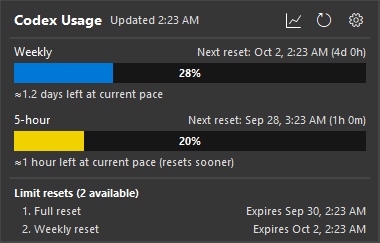
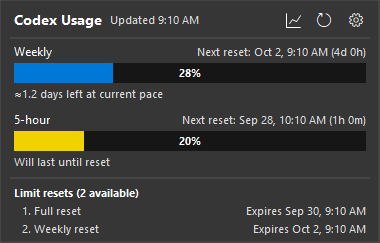
fix(usage): clarify reset forecasts and improve history charts

diff --git a/src/UsageHistoryForm.cs b/src/UsageHistoryForm.cs
@@ -68,8 +68,8 @@ namespace CodexUsageTray
             tabs.AutoSize = true;
             tabs.Dock = DockStyle.Fill;
             tabs.Margin = new Padding(0, 0, 0, 8);
-            weeklyButton = CreatePeriodButton("&Weekly", "Weekly usage: last seven days");
-            fiveHourButton = CreatePeriodButton("&5-hour", "Five-hour usage: last five hours");
+            weeklyButton = CreatePeriodButton("&Weekly", "Weekly limit: all recorded history");
+            fiveHourButton = CreatePeriodButton("&5-hour", "Five-hour limit: all recorded history");
             tabs.Controls.Add(weeklyButton);
             tabs.Controls.Add(fiveHourButton);
             Button clearButton = new Button();
@@ -94,7 +94,7 @@ namespace CodexUsageTray
             detailLabel.AccessibleName = "Selected usage reading";
             forecastLabel = CreateLabel("");
             forecastLabel.AccessibleName = "Estimated usage remaining";
-            Label legend = CreateLabel("Dotted lines: reset or usage adjustment observed. Gaps: missing observations. Times are local.");
+            Label legend = CreateLabel("Dashed segments: gaps between readings. Vertical dotted lines: reset or adjustment. Times are local.");
             legend.Margin = new Padding(0, 8, 0, 0);
 
             layout.Controls.Add(tabs, 0, 0);
@@ -287,19 +287,26 @@ namespace CodexUsageTray
                     : null;
                 weekly = showWeekly;
                 endUtc = nowUtc;
-                startUtc = nowUtc - (weekly ? TimeSpan.FromDays(7) : TimeSpan.FromHours(5));
+                startUtc = nowUtc;
                 samples.Clear();
                 if (values != null)
                 {
                     for (int i = 0; i < values.Count; i++)
                     {
                         UsageHistorySample sample = values[i];
-                        if (sample != null && sample.TimestampUtc >= startUtc && sample.TimestampUtc <= endUtc)
+                        if (sample != null && sample.TimestampUtc <= endUtc &&
+                            UsageHistoryStore.GetWindow(sample, weekly) != null)
                         {
                             samples.Add(sample);
                         }
                     }
                 }
+                samples.Sort(delegate(UsageHistorySample left, UsageHistorySample right)
+                {
+                    return left.TimestampUtc.CompareTo(right.TimestampUtc);
+                });
+                if (samples.Count > 0) startUtc = samples[0].TimestampUtc;
+                if (endUtc <= startUtc) endUtc = startUtc.AddMinutes(1);
                 int retainedIndex = -1;
                 if (selectedTimestamp.HasValue)
                 {
@@ -340,8 +347,9 @@ namespace CodexUsageTray
                 graphics.SmoothingMode = SmoothingMode.AntiAlias;
                 float scale = graphics.DpiX / 96.0f;
                 float labelHeight = Math.Max(Font.Height + 4, 18 * scale);
+                bool showDates = startUtc.ToLocalTime().Date != endUtc.ToLocalTime().Date;
                 plot = new RectangleF(48 * scale, labelHeight + 4 * scale,
-                    Math.Max(1, Width - 64 * scale), Math.Max(1, Height - labelHeight * 3 - 8 * scale));
+                    Math.Max(1, Width - 64 * scale), Math.Max(1, Height - labelHeight * (showDates ? 4 : 3) - 8 * scale));
                 Color muted = SystemInformation.HighContrast ? SystemColors.WindowText :
                     dark ? Color.Gainsboro : Color.FromArgb(72, 72, 72);
                 Color grid = SystemInformation.HighContrast ? SystemColors.WindowText :
@@ -359,24 +367,30 @@ namespace CodexUsageTray
                         DrawText(graphics, percent.ToString(CultureInfo.CurrentCulture) + "%",
                             new RectangleF(0, y - labelHeight / 2, plot.Left - 6 * scale, labelHeight), muted, true);
                     }
-                    for (int tick = 0; tick <= 4; tick++)
+                    for (int tick = 0; samples.Count > 0 && tick <= 4; tick++)
                     {
                         float x = plot.Left + plot.Width * tick / 4.0f;
                         graphics.DrawLine(gridPen, x, plot.Bottom, x, plot.Bottom + 4 * scale);
                         DateTime time = startUtc + TimeSpan.FromTicks((endUtc - startUtc).Ticks * tick / 4);
-                        string label = time.ToLocalTime().ToString(weekly ? "MMM d" : "t", CultureInfo.CurrentCulture);
+                        DateTime local = time.ToLocalTime();
+                        string label = local.ToString(showDates ? "MMM d" : "t", CultureInfo.CurrentCulture);
                         float width = Math.Min(88 * scale, plot.Width / 4);
                         float left = Math.Max(plot.Left, Math.Min(plot.Right - width, x - width / 2));
                         DrawText(graphics, label, new RectangleF(left, plot.Bottom + 6 * scale, width, labelHeight), muted, false);
+                        if (showDates)
+                            DrawText(graphics, local.ToString("t", CultureInfo.CurrentCulture),
+                                new RectangleF(left, plot.Bottom + 6 * scale + labelHeight, width, labelHeight), muted, false);
                     }
                 }
 
                 int validCount = 0;
                 using (Pen linePen = new Pen(line, Math.Max(1.5f, 2 * scale)))
+                using (Pen gapPen = new Pen(line, Math.Max(1.5f, 2 * scale)))
                 using (Pen resetPen = new Pen(muted, Math.Max(1, scale)))
                 using (Brush pointBrush = new SolidBrush(line))
                 {
                     resetPen.DashStyle = DashStyle.Dot;
+                    gapPen.DashStyle = DashStyle.Dash;
                     for (int i = 0; i < samples.Count; i++)
                     {
                         UsageHistoryWindow window = UsageHistoryStore.GetWindow(samples[i], weekly);
@@ -386,9 +400,10 @@ namespace CodexUsageTray
                         }
                         validCount++;
                         PointF point = GetPoint(samples[i], window);
-                        if (i > 0 && UsageHistoryStore.IsContinuous(samples[i - 1], samples[i], weekly))
+                        if (i > 0 && !UsageHistoryStore.IsReset(samples[i - 1], samples[i], weekly))
                         {
-                            graphics.DrawLine(linePen,
+                            Pen segmentPen = UsageHistoryStore.IsContinuous(samples[i - 1], samples[i], weekly) ? linePen : gapPen;
+                            graphics.DrawLine(segmentPen,
                                 GetPoint(samples[i - 1], UsageHistoryStore.GetWindow(samples[i - 1], weekly)), point);
                         }
                         if (i > 0 && UsageHistoryStore.IsReset(samples[i - 1], samples[i], weekly))
@@ -396,7 +411,7 @@ namespace CodexUsageTray
                             graphics.DrawLine(resetPen, point.X, plot.Top, point.X, plot.Bottom);
                             graphics.FillRectangle(pointBrush, point.X - 3 * scale, point.Y - 3 * scale, 6 * scale, 6 * scale);
                         }
-                        else
+                        else if (i == 0 || i == samples.Count - 1 || i == selectedIndex)
                         {
                             graphics.FillEllipse(pointBrush, point.X - 2 * scale, point.Y - 2 * scale, 4 * scale, 4 * scale);
                         }
@@ -413,7 +428,7 @@ namespace CodexUsageTray
                     {
                         graphics.FillRectangle(background, plot.Left + 1, plot.Top + 1, plot.Width - 2, plot.Height - 2);
                     }
-                    TextRenderer.DrawText(graphics, "No readings in this period yet.\nHistory starts with successful usage refreshes.",
+                    TextRenderer.DrawText(graphics, "No readings recorded yet.\nHistory starts with successful usage refreshes.",
                         Font, Rectangle.Round(plot), ForeColor,
                         TextFormatFlags.HorizontalCenter | TextFormatFlags.VerticalCenter | TextFormatFlags.WordBreak);
                 }

diff --git a/tests/UsageHistoryForm.Tests.cs b/tests/UsageHistoryForm.Tests.cs
@@ -1,0 +1,85 @@
+using System;
+using System.Collections.Generic;
+using System.Drawing;
+using System.IO;
+using System.Reflection;
+using System.Windows.Forms;
+
+namespace CodexUsageTray.Tests
+{
+    internal static class UsageHistoryFormTests
+    {
+        public static void Run()
+        {
+            string path = Path.Combine(Path.GetTempPath(), "UnusedChartHistory-" + Guid.NewGuid().ToString("N"));
+            using (UsageHistoryForm form = new UsageHistoryForm(new UsageHistoryStore(path), new AppSettings()))
+            {
+                Control chart = (Control)typeof(UsageHistoryForm).GetField("chart", BindingFlags.Instance | BindingFlags.NonPublic).GetValue(form);
+                DateTime now = DateTime.UtcNow;
+                List<UsageHistorySample> samples = new List<UsageHistorySample>
+                {
+                    Sample(now.AddDays(-2), 40),
+                    Sample(now.AddDays(-8), 10),
+                    new UsageHistorySample { TimestampUtc = now.AddDays(-10), FiveHour = new UsageHistoryWindow { UsedPercent = 20 } },
+                    Sample(now.AddMinutes(1), 50)
+                };
+                Update(chart, samples, true, now);
+                Assert(GetDate(chart, "startUtc") == now.AddDays(-8), "axis starts at the earliest weekly reading, even before seven days");
+                Assert(GetDate(chart, "endUtc") == now, "axis ends at the current time");
+                Assert(CountMiddleLinePixels(chart) > 10, "sparse readings are joined by visible line segments");
+
+                samples[0].Weekly.UsedPercent = 0;
+                Update(chart, samples, true, now);
+                Assert(CountMiddleLinePixels(chart) == 0, "a reset is not interpolated as gradual replenishment");
+
+                Update(chart, samples, false, now);
+                Assert(GetDate(chart, "startUtc") == now.AddDays(-10), "each usage window uses its own first reading");
+                Update(chart, new List<UsageHistorySample> { Sample(now, 20) }, true, now);
+                Assert(GetDate(chart, "startUtc") == now && GetDate(chart, "endUtc") > now, "single current reading has a nonzero range without earlier empty time");
+                CountMiddleLinePixels(chart);
+                Update(chart, new List<UsageHistorySample>(), true, now);
+                Assert(GetDate(chart, "endUtc") > GetDate(chart, "startUtc"), "empty chart has a safe range");
+                CountMiddleLinePixels(chart);
+            }
+        }
+
+        private static UsageHistorySample Sample(DateTime timestamp, double used)
+        {
+            return new UsageHistorySample
+            {
+                TimestampUtc = timestamp,
+                Weekly = new UsageHistoryWindow { UsedPercent = used, WindowMinutes = 10080 }
+            };
+        }
+
+        private static void Update(Control chart, List<UsageHistorySample> samples, bool weekly, DateTime now)
+        {
+            chart.GetType().GetMethod("UpdateData").Invoke(chart, new object[] { samples, weekly, now });
+        }
+
+        private static DateTime GetDate(Control chart, string field)
+        {
+            return (DateTime)chart.GetType().GetField(field, BindingFlags.Instance | BindingFlags.NonPublic).GetValue(chart);
+        }
+
+        private static int CountMiddleLinePixels(Control chart)
+        {
+            chart.Size = new Size(600, 280);
+            chart.GetType().GetMethod("ApplyTheme").Invoke(chart, new object[] { false });
+            using (Bitmap image = new Bitmap(chart.Width, chart.Height))
+            {
+                chart.DrawToBitmap(image, new Rectangle(Point.Empty, image.Size));
+                int count = 0;
+                for (int x = 200; x < 300; x++)
+                    for (int y = 30; y < 200; y++)
+                        if (image.GetPixel(x, y).ToArgb() == Color.FromArgb(0, 104, 180).ToArgb()) count++;
+                return count;
+            }
+        }
+
+        private static void Assert(bool condition, string message)
+        {
+            if (!condition) throw new InvalidOperationException("History chart: " + message);
+        }
+    }
+}

diff --git a/tests/UsageHistory.Tests.cs b/tests/UsageHistory.Tests.cs
@@ -84,7 +84,7 @@ namespace CodexUsageTray.Tests
             store.Observe(Snapshot(now.AddMinutes(-15), 37.5, reset));
             store.Observe(latest);
             Assert(store.GetForecast(false, latest, now) == "\u22481 hour left at current pace", "observed 50 percent per hour forecasts one hour");
-            Assert(store.GetForecast(true, latest, now).Contains("at cycle average"), "short observation history falls back to the cycle average");
+            Assert(store.GetForecast(true, latest, now) == "Will last until reset", "cycle average is capped by the reset");
             Assert(store.GetForecast(false, latest, now.AddMinutes(31)) == "Refresh usage for an estimate", "old observations do not yield forecasts");
 
             store.Clear();
@@ -93,7 +93,11 @@ namespace CodexUsageTray.Tests
             store.Observe(Snapshot(now.AddMinutes(-15), 37.5, reset));
             latest = Snapshot(now, 50, reset);
             store.Observe(latest);
-            Assert(store.GetForecast(false, latest, now) == "\u22481 hour left at current pace (resets sooner)", "earlier reset preserves the consumption-based duration");
+            Assert(store.GetForecast(false, latest, now) == "Will last until reset", "earlier reset replaces the depletion duration");
+            latest.FiveHour.ResetAfterSeconds = 3600;
+            Assert(store.GetForecast(false, latest, now) == "Will last until reset", "depletion exactly at reset lasts until reset");
+            latest.FiveHour.ResetAfterSeconds = 3601;
+            Assert(store.GetForecast(false, latest, now) == "\u22481 hour left at current pace", "depletion before reset retains its duration");
 
             store.Clear();
             reset = now.AddHours(4);
@@ -153,7 +157,7 @@ namespace CodexUsageTray.Tests
             latest.Weekly.ResetAfterSeconds = null;
             Assert(store.GetForecast(true, latest, now) == "\u22484 days left at current pace", "depletion uses observed consumption rather than time until reset");
             latest.Weekly.ResetAfterSeconds = 2 * 86400;
-            Assert(store.GetForecast(true, latest, now) == "\u22484 days left at current pace (resets sooner)", "scheduled reset is supplementary to the estimate");
+            Assert(store.GetForecast(true, latest, now) == "Will last until reset", "weekly estimate is capped by its actual reset deadline");
             latest.Weekly.ResetAfterSeconds = 0;
             Assert(store.GetForecast(true, latest, now) == "Awaiting reset update", "expired reset needs a fresh reading");
         }
@@ -203,6 +207,13 @@ namespace CodexUsageTray.Tests
             UsageSnapshot snapshot = Snapshot(now, 20, now.AddDays(6));
             Assert(store.GetForecast(true, snapshot, now) == "\u22484 days left at cycle average",
                 "first reading of 20 percent in one day estimates four days without learning");
+            snapshot.Weekly.UsedPercent = 10;
+            Assert(store.GetForecast(true, snapshot, now) == "Will last until reset",
+                "initial weekly estimate beyond reset uses the survival label");
+            snapshot.FiveHour.UsedPercent = 20;
+            snapshot.FiveHour.ResetAfterSeconds = 4 * 3600;
+            Assert(store.GetForecast(false, snapshot, now) == "Will last until reset",
+                "initial five-hour estimate exactly at reset uses the survival label");
             snapshot.Weekly.UsedPercent = 0;
             Assert(store.GetForecast(true, snapshot, now) == "No usage yet this cycle", "zero consumption has no invented depletion");
             snapshot.Weekly.UsedPercent = 20;

diff --git a/src/UsageHistory.cs b/src/UsageHistory.cs
@@ -212,10 +212,9 @@ namespace CodexUsageTray
             double consumed = lastWindow.UsedPercent - GetWindow(periodSamples[start], weekly).UsedPercent;
             if (consumed <= 0) return "No usage increase in recent history";
             double remainingHours = (100 - limit.UsedPercent) * hours / consumed;
-            string forecast = "\u2248" + FormatDuration(remainingHours) + " left at current pace";
             if (window.ResetAtUtc.HasValue && remainingHours >= (window.ResetAtUtc.Value - nowUtc).TotalHours)
-                forecast += " (resets sooner)";
-            return forecast;
+                return "Will last until reset";
+            return "\u2248" + FormatDuration(remainingHours) + " left at current pace";
         }
 
         private static string GetInitialForecast(bool weekly, UsageSnapshot snapshot, DateTime nowUtc,
@@ -239,9 +238,8 @@ namespace CodexUsageTray
             }
             if (limit.UsedPercent <= 0) return "No usage yet this cycle";
             double remainingHours = (100 - limit.UsedPercent) * elapsed / (limit.UsedPercent * 3600);
-            string forecast = "\u2248" + FormatDuration(remainingHours) + " left at cycle average";
-            if (remainingHours >= (reset - nowUtc).TotalHours) forecast += " (resets sooner)";
-            return forecast;
+            if (remainingHours >= (reset - nowUtc).TotalHours) return "Will last until reset";
+            return "\u2248" + FormatDuration(remainingHours) + " left at cycle average";
         }
 
         private static string FormatDuration(double hours)

diff --git a/tests/CodexUsageTray.Tests.cs b/tests/CodexUsageTray.Tests.cs
@@ -7,6 +7,7 @@ namespace CodexUsageTray.Tests
     {
         private static int failures;
 
+        [STAThread]
         private static int Main(string[] args)
         {
             if (args == null || args.Length != 1)
@@ -28,6 +29,7 @@ namespace CodexUsageTray.Tests
             TestAutomaticResetRedemptionPolicy();
             UsageHistoryTests.Run();
             UsageFeaturesTests.Run();
+            UsageHistoryFormTests.Run();
             ClaudeUsageTests.Run();
             CodexHistoryImporterTests.Run();
 

diff --git a/README.md b/README.md
@@ -58,10 +58,10 @@ Available banked resets are always listed directly below usage, with their count
 - Each usage bar has an approximate time remaining **at current pace**, calculated as remaining allowance divided by observed consumption per hour or day. For example, 80% remaining after using 20% over a day gives **≈4 days left at current pace**. The 5-hour estimate uses observations within the last hour; the weekly estimate uses up to 48 hours. Estimates assume that your observed pace continues.
 - Recent-trend estimates need at least three observations spanning 15 minutes for the 5-hour window or six hours for the weekly window. Before that, the app uses the current window's percentage used divided by elapsed time since its inferred start (`reset time - window duration`), labeled **at cycle average**. For example, 20% used one day into a weekly window gives approximately four days remaining immediately. This initial pacing follows the approach in [OpenQuota](https://github.com/deviffyy/OpenQuota/blob/main/src-tauri/src/pacing.rs).
 - The cycle-average estimate waits until at least 1% of the window (and at least one minute) has elapsed, needs known window/reset timing, and is suppressed after an observed usage decrease within the same reset window. When neither method has enough information, the popup shows **Learning usage pace...**. Recent observed trends take precedence once available.
-- When the scheduled reset occurs before projected depletion, the duration stays visible with **(resets sooner)** alongside it. No observed increase is reported explicitly rather than inventing a depletion time.
+- When the allowance is projected to last until or beyond its scheduled reset, the estimate shows **Will last until reset**. Otherwise, it shows the estimated time remaining. This applies to both recent trends and cycle averages. No observed increase is reported explicitly rather than inventing a depletion time.
 - Failed, paused, or more than 30-minute-old readings do not produce current estimates. Observed usage decreases or changed reset deadlines start a new forecast segment. Weekly estimates can span overnight gaps only when both observations share a known reset deadline.
-- Open **Usage history** from the tray menu or the chart icon beside Refresh. Weekly and 5-hour views show the last seven days or five hours. Hover over the chart, or focus it and use the arrow keys, to inspect local timestamps and remaining percentages.
-- Gaps over two hours are left disconnected. Dotted markers indicate an observed reset or usage adjustment; they mark the observation, not the exact event time. The chart shows recorded readings only, with no forecast line.
+- Open **Usage history** from the tray menu or the chart icon beside Refresh. Weekly and 5-hour select the usage limit; both show all retained readings for that limit, starting at its earliest recorded reading and ending at the current time. Hover over the chart, or focus it and use the arrow keys, to inspect local timestamps and remaining percentages.
+- Readings are connected with a line. Dashed segments span gaps over two hours; they connect observations without implying measurements were taken in between. Reset or usage-adjustment boundaries remain disconnected and have vertical dotted markers at the observation time. Only endpoints, resets, and the selected reading are emphasized with point markers. The chart has no forecast line.
 - Successful readings are saved locally in `%APPDATA%\CodexUsageTray\usage-history.json`, retaining up to 14 days and 45,000 observations. After the first successful Codex refresh, a background scan backfills quota readings from existing local `sessions` and `archived_sessions` logs under `CODEX_HOME` (or `%USERPROFILE%\.codex`). Only valid account-quota events matching the current reset deadlines are imported; token counts are never converted into invented quota percentages. Missing logs or unsupported formats simply leave less history available.
 - Import scans recent files first, stopping after 30 seconds or 1 GiB, so very large log collections can yield partial history. It runs once and records completion in `usage-history.json.imported`. Use **Clear history** to erase saved readings, including after switching Codex accounts: history belongs to the Windows user and is not separated by account. Clearing also prevents the background import from restoring erased readings. Source session logs remain untouched.
 
